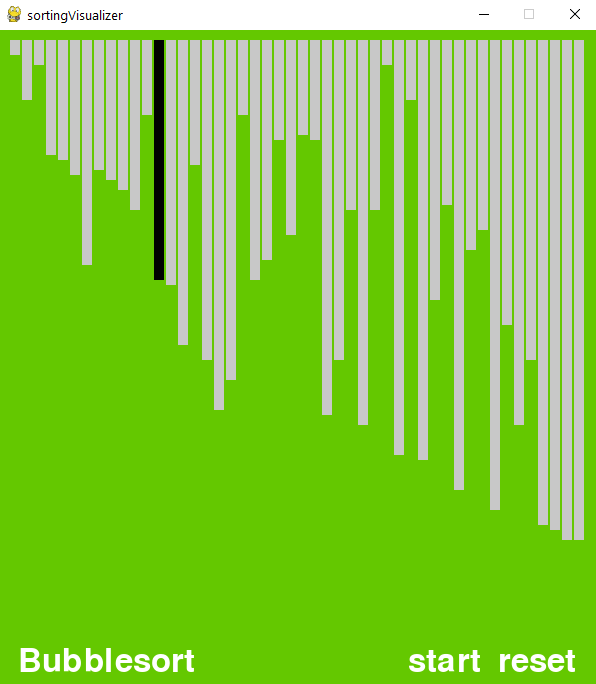
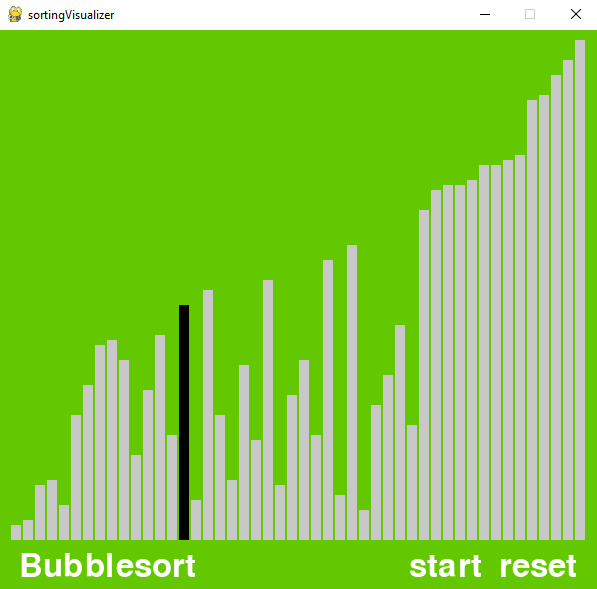
bar direction

diff --git a/SortingVisualizer.py b/SortingVisualizer.py
@@ -9,14 +9,14 @@ from bar import BarS
 class SortingVisualizer:
     def __init__(self):
         pygame.init()
-        self.screen = pygame.display.set_mode((600, 660))
+        self.screen = pygame.display.set_mode((600, 560))
         pygame.display.set_caption("sortingVisualizer")
         self.clock = pygame.time.Clock()
         self.n = [BarS() for i in range(48)]
 
-        self.bButton = Button(self.screen, 'Bubblesort', 20, 615)
-        self.sButton = Button(self.screen, 'start', 410, 615)
-        self.rButton = Button(self.screen, 'reset', 500, 615)
+        self.bButton = Button(self.screen, 'Bubblesort', 20, 520)
+        self.sButton = Button(self.screen, 'start', 410, 520)
+        self.rButton = Button(self.screen, 'reset', 500, 520)
 
         self.started = False
 

diff --git a/bar.py b/bar.py
@@ -7,4 +7,4 @@ class BarS:
         self.color = (200, 200, 200)
 
     def draw(self, screen, i):
-        pygame.draw.rect(screen, self.color, (i*12+12, 10, 10, self.val*5))
+        pygame.draw.rect(screen, self.color, (i*12+12, 510 - self.val*5, 10, self.val*5))
